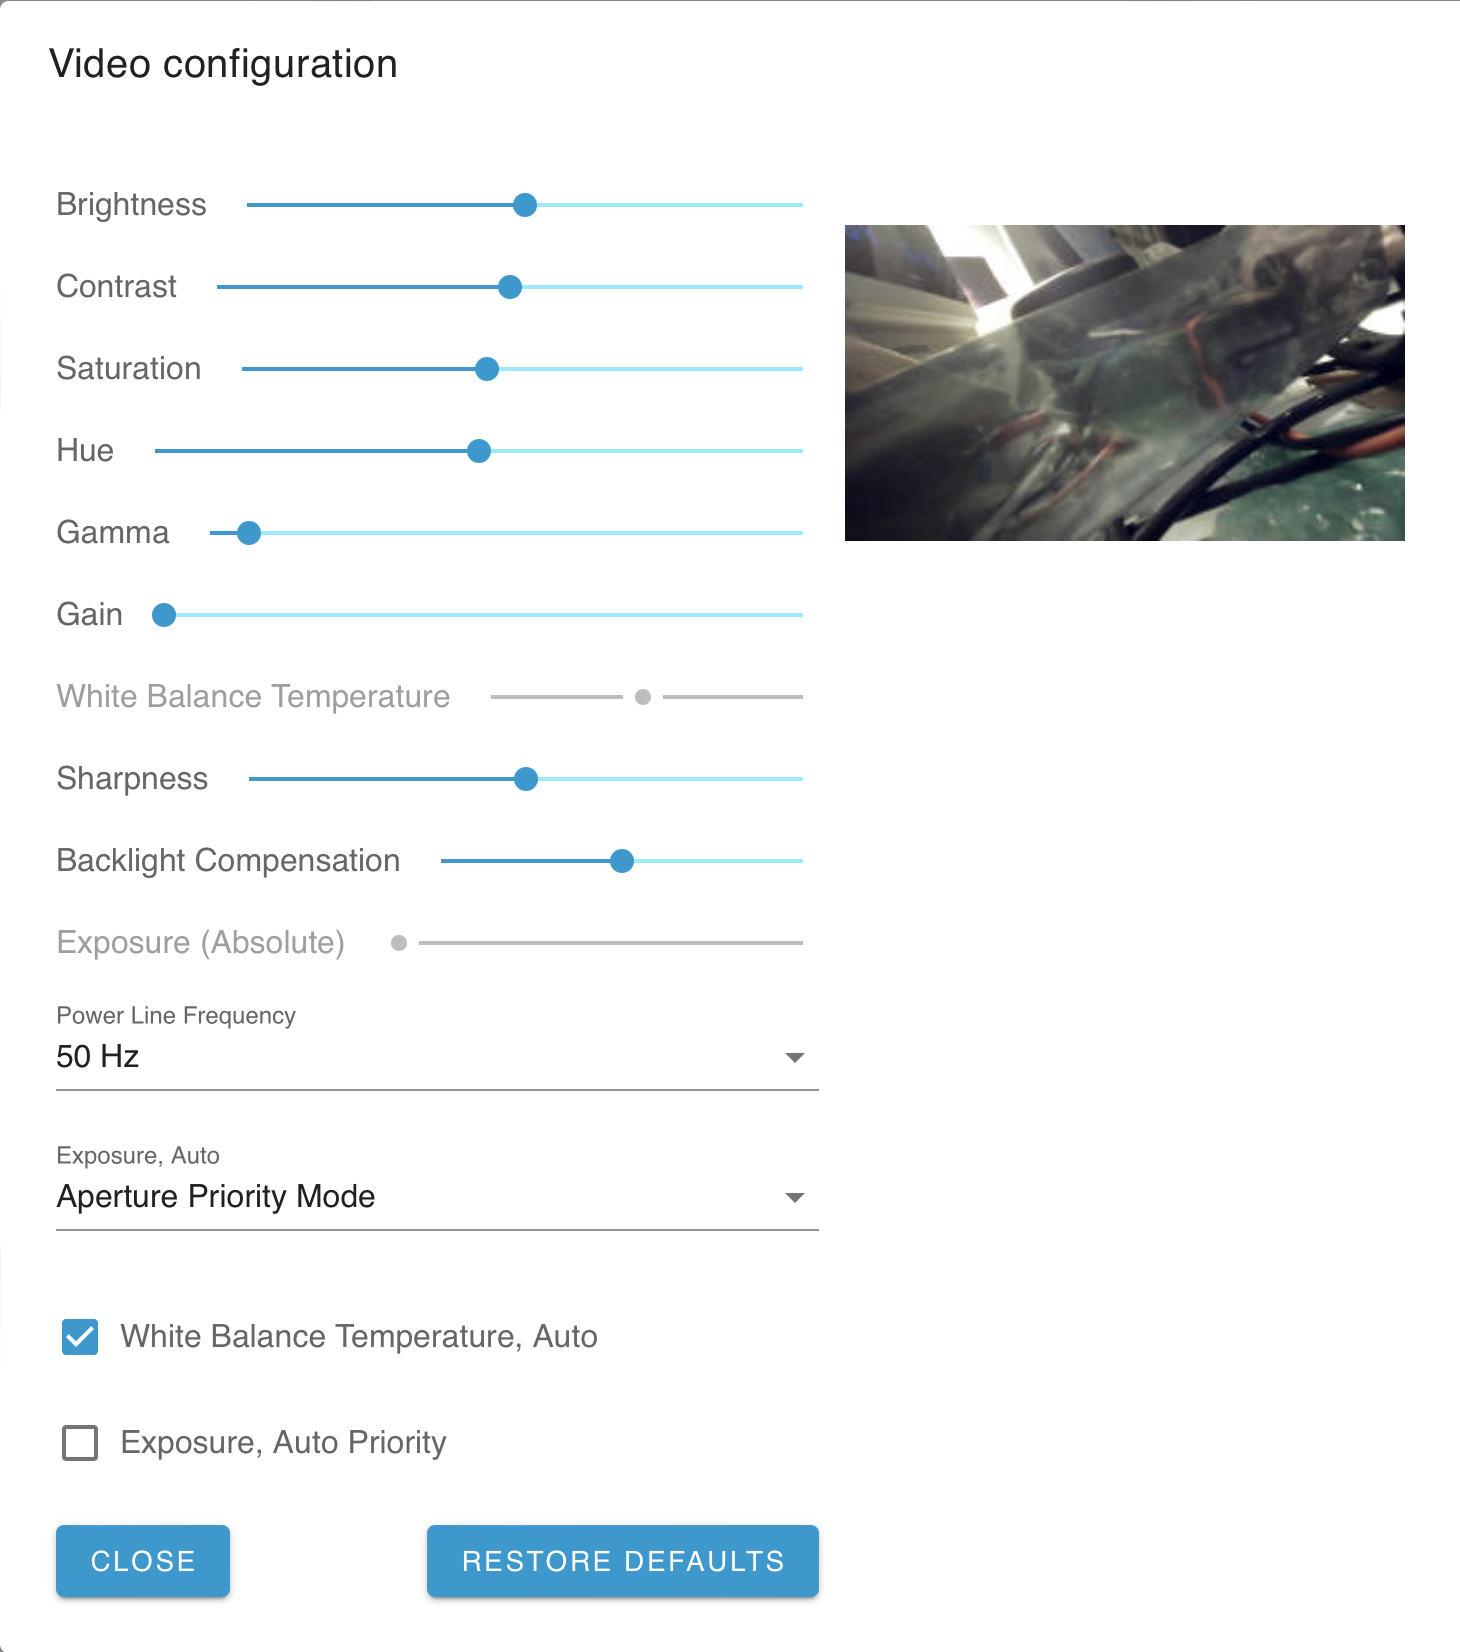
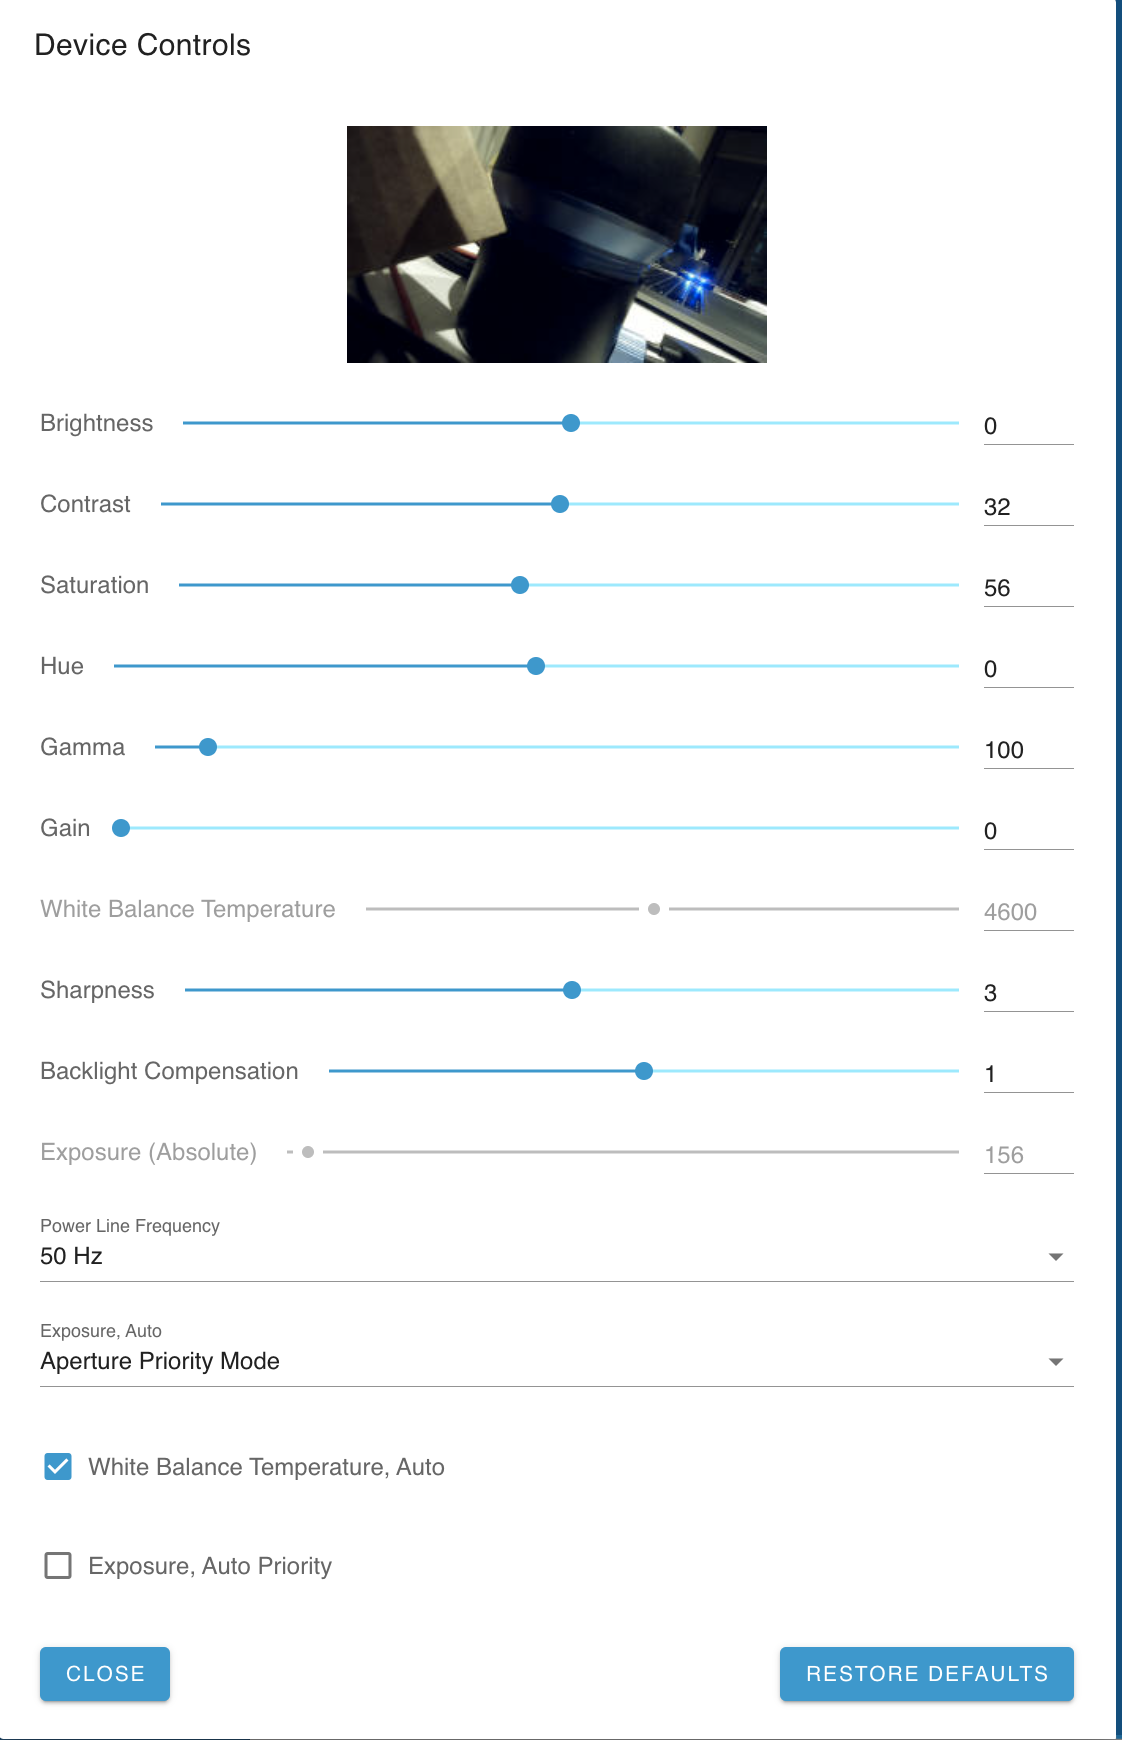
content: usage: advanced: update video info

diff --git a/content/usage/advanced/index.md b/content/usage/advanced/index.md
@@ -1,7 +1,7 @@
 +++
 title = "Advanced Usage"
 description = "BlueOS advanced usage documentation."
-date = 2024-09-26T16:00:00+11:00
+date = 2025-04-16T06:20:00+10:00
 template = "docs/page.html"
 sort_by = "weight"
 weight = 30
@@ -749,6 +749,9 @@ connected at that time, with UDP streams counting up from port `5600`
 
 {{ simple_pirate_image(src="video-stream-example", width=400, center=true) }}
 
+- H264-encoded streams can be repackaged as WebRTC, and viewed and recorded in
+[Cockpit](https://blueos.cloud/cockpit/docs/latest/usage/advanced/#video-widgets)
+   - H265-encoded streams also work, but currently only on macOS `(New in 1.4)`
 - By default the streams are also presented via MAVLink, so QGroundControl (>=v4.1.7)
 can toggle between them without needing to know specific ports
 {% pirate() %}
@@ -759,13 +762,13 @@ can toggle between them without needing to know specific ports
 {{ easy_image(src="qgc_switch_streams", width=400, center=true) }}
 
 - Camera settings (brightness, exposure, etc) that are exposed via UVC can be
-configured with the "Configure" button
+configured with the "Device Controls" button
 
 {{ easy_image(src="video-config-example", width=500, center=true) }}
 
 - Camera settings are also exposed via the
 [MAVLink camera protocol](https://mavlink.io/en/services/camera.html), so are
-controllable in QGroundControl
+controllable in applications like QGroundControl
 - Switching streams in QGroundControl while recording stops the current recording
    - If you are regularly switching streams it may be worth doing a screen recording
    either instead of or as well as recording the base video
@@ -781,11 +784,9 @@ controllable in QGroundControl
    - Detection requires turning on legacy camera support:
       1. turn on via the settings button in the buttom right corner
       2. reboot the onboard computer to enable
-{% pirate() %}
 - It is possible to use the "Redirect source" element to make an ethernet camera
-available via the BlueOS camera manager, which allows QGroundControl to detect
-it automatically (via MAVLink)
-{% end %}
+available via the BlueOS camera manager, which allows Cockpit and QGroundControl 
+to detect it automatically
 
 {{ simple_pirate_image(src="video", width=600) }}
 
